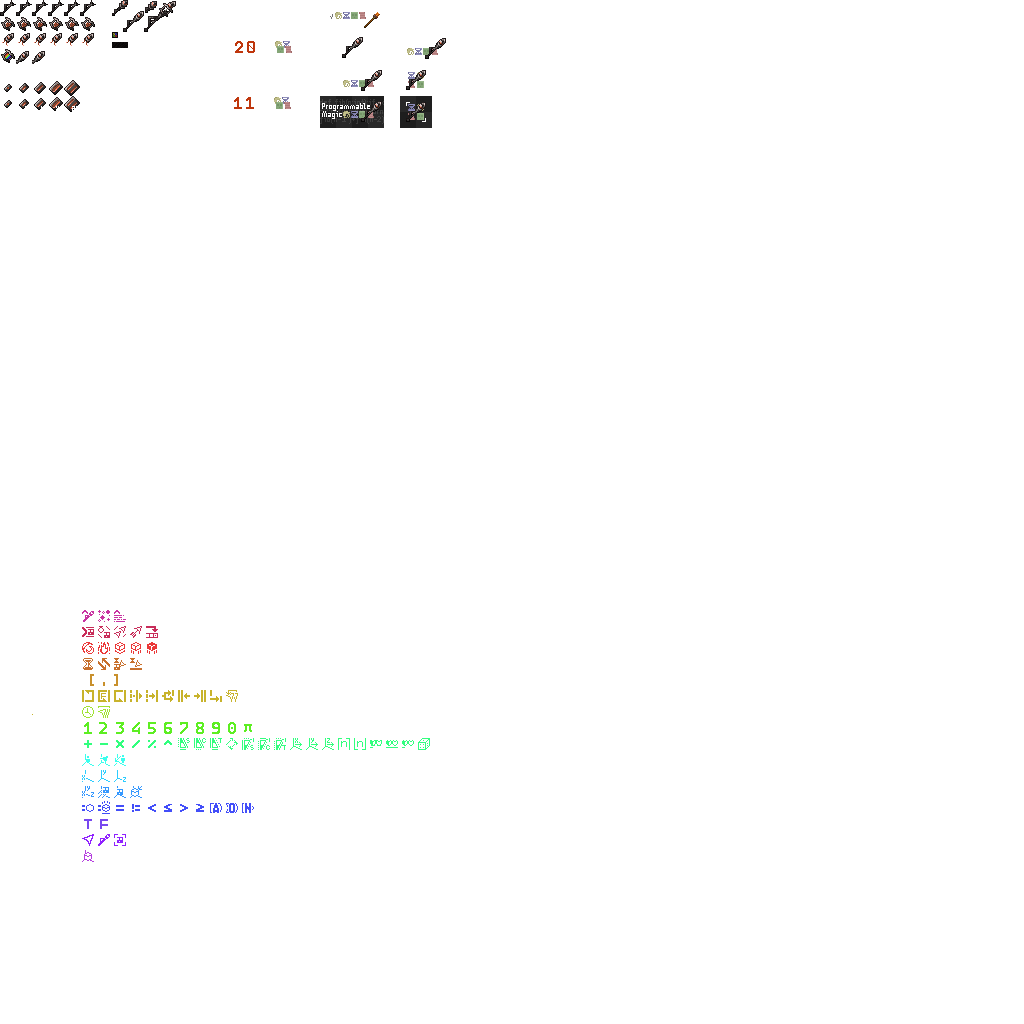
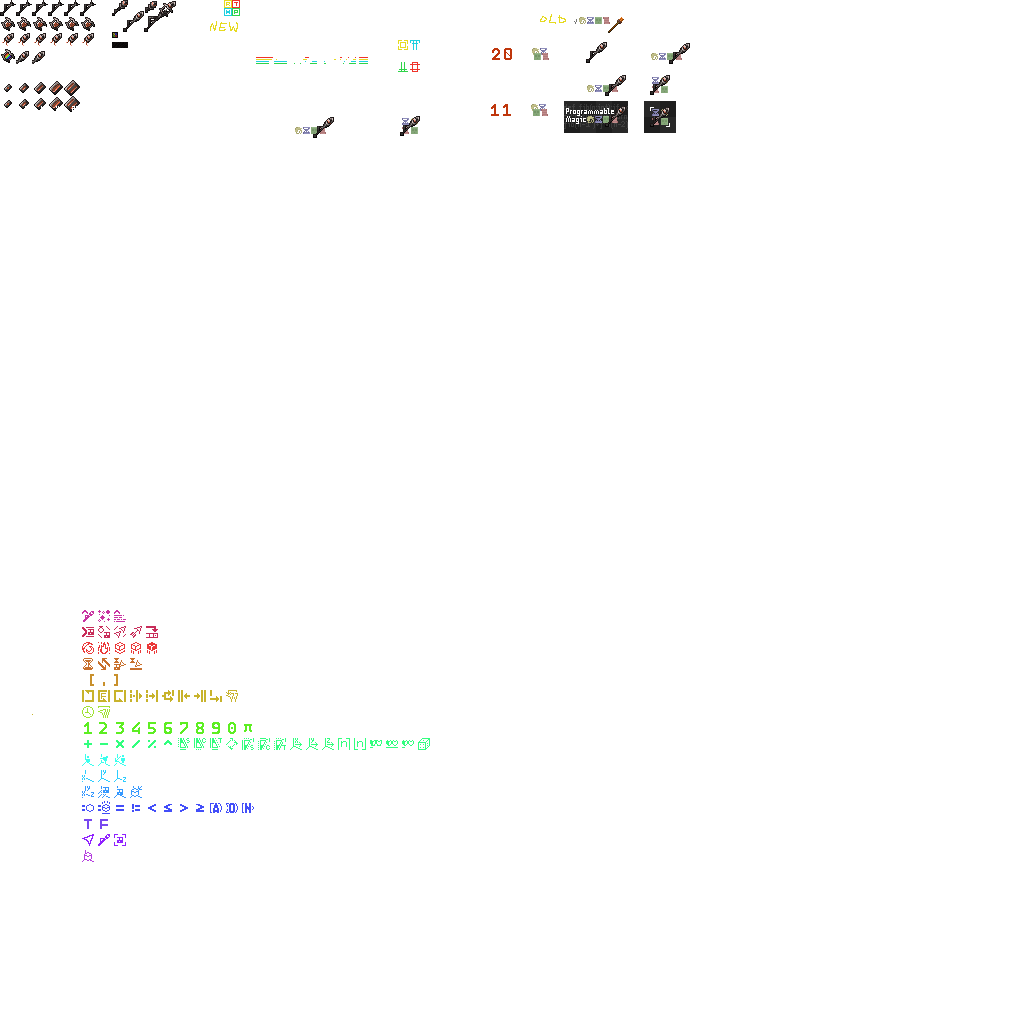
chore: 更新README简介, 调整GUI文案, 更换模组Logo

diff --git a/README.md b/README.md
@@ -1,7 +1,4 @@
-
----
-
-# Arcanism (魔导主义)
+# Arcanism（魔导主义）
 
 <div align="center">
 
@@ -16,56 +13,40 @@
 
 </div>
 
-## 🤔 把魔法写成代码，会怎样？
+Arcanism 是一个融合了科技要素和编程要素的魔法 Mod。这个 Mod 以魔力的生产与消耗作为核心玩法，构建了一套魔力体系。
 
-在大多数魔法模组里，法术是现成的——右键放火球，shift 放护盾，威力看等级，区别只在于数值。玩法始终是"选技能、按按键、等冷却"。
+> 当前正在早期开发版本，部分功能可能只有雏形，以下简介的功能可能只实现了一部分。
 
-**Arcanism** 把施法变成了一门工程学。法术是零件——效果、运算、条件、循环。你需要把这些零件像写程序一样编排进魔杖，组合出自己的施法序列。
+## 核心亮点
 
-> 你的强弱，取决于你构建的逻辑。
+- 类 "Factorio" 式的多方块结构机器和产线生产；
+- 四系魔力系统，魔力生产需要平衡各项；
+- 基于物理/第一性原理的多样化的魔力生产/消耗方式；
+- 类 "Noita" 的法术编程系统；
+- 模块化的法杖，定制你自己的施法方式；
+- 基于现实的产线和数值，不出现"缺乏平衡"的问题。
 
----
+## 魔力系统，怎么玩？
 
-## 🧩 一门真正的"魔法编程语言"
+四种魔力基于现实物理，每种魔力可以局部改变对应物理量。尝试使用天马行空的方式聚集能量，再通过魔导材料收集这些魔力吧！得益于此，每种魔力都会有很多独特的生产方式，也可以让一种魔力转换成另一种（当然，通过物理）。
 
-魔杖里流淌的是一段用卡片写成的程序。
+每种魔力都有自己的用途，有自己的独特机器，而且通过超频机制，你最高可以将机器速度提升 5 倍！
 
-**基础效果**是输出——爆炸、传送、方块放置、药水效果……这些是法术最终要做的事。一张火球还不够自动化，你需要**运算卡片**来计算——四则运算、三角函数、向量投影、动态获取施法者位置和视线方向，让参数告别硬编码。**控制卡片**来决策——`if` 条件分支区分敌我、`while` 循环批量处理、逻辑运算符组合判断。**触发器**来感知——接触地面时引爆、触碰到实体时追踪、延时精确到刻。
+## 法术编程，怎么做？
 
-数字用 0-9 卡片拼积木一样拼出来。括号决定优先级，逗号分隔参数。70+ 张卡片构成了一门完整的编程语言——有类型系统、有运算符优先级、有作用域、有异常处理。
+法术编程，不应该只按类别排列组合，而得是一个图灵完备的计算机器，才能真正做到"千人千术"。因此我们设计了完整的延时、计算、条件、循环等法术，让您能真正控制法术的所有行为。
 
-你组装的不是技能，是**可复用的法术函数**。一套优秀的序列可以针对战斗、挖掘、移动场景快速改装。
+调试艰难？模组法杖内置调试器，实时显示当前执行的法术，自动断点、单步运行、单刻运行、继续暂停……你想要的全都有！此外，法杖内置方便的编辑/导入/导出系统，无论是在魔杖或是 VSCode，都能提供 IDE 级别的编辑体验。
 
----
+## 不想科技/编程，怎么办？
 
-## 🔋 魔力是四维向量
+科技部分与法术编程部分完全独立，大部分材料都会设置探索或合成两种获取方式。无需迁就，寻找属于自己的魔导体验。
 
-传统的魔力就是一个数字，够不够看一眼蓝条就知道。这里，每条法术同时消耗**四种魔力**：辐射、温度、动量、压力。四系独立结算，任一项不足就施法失败。
+## 版本与前置
 
-这改变了发电机的意义——不能只造一种。风力涡轮产出动量，太阳能板产出辐射，水泵消耗动量产出压力，蒸汽锅炉把温度和压力转换成功。你需要搭建电力网级别的魔力网络，用线缆连接设备，用路由分配负荷，像管理电网一样管理魔力。
+Arcanism 需要 GeckoLib 作为前置，运行版本 26.1.2。
 
-不同的法术序列需要不同的魔力配比，意味着你需要规划产能结构。想做爆炸法师就多修动量塔，想走辅助路线则温度和辐射产线得跟上。
-
----
-
-## ⚙ 魔杖即硬件，插件即配置
-
-空手施法在这里不存在。魔杖是法术的物理载体，有固定的法术槽位和插件槽位。插件是**可插拔的硬件配置**：供给插件决定魔力转化效率，存储插件扩展法术容量，释放插件控制充能功率。
-
-不同场景换不同插件，一把魔杖可以有完全不同的使用体验。这是模组化的思路——不强迫你农满级，只根据需求搭配。
-
----
-
-## 📦 上手
-
-1. 环境：Minecraft `26.1.2` + NeoForge，前置 **GeckoLib**
-2. 从 [GitHub Releases](https://github.com/creepebucket/arcanism/releases) 下载
-3. 放入 `mods`
-4. 合成一把魔杖和一些法术卡片，潜行右键打开编程界面，开始组装你的第一个法术序列
-
----
-
-## 📄 许可
+## 许可
 
 **源代码**：GPLv3。**美术资源**：原作者保留所有权利（ARR），绝大部分美术资源不可自由挪用。详见 `ASSET_LICENSE.md`。
 
@@ -73,12 +54,10 @@
 
 <div align="center">
 <a href="https://www.star-history.com/#creepebucket/arcanism&type=date&legend=top-left">
- <picture>
-   <source media="(prefers-color-scheme: dark)" srcset="https://api.star-history.com/svg?repos=creepebucket/arcanism&type=date&theme=dark&legend=top-left" />
-   <source media="(prefers-color-scheme: light)" srcset="https://api.star-history.com/svg?repos=creepebucket/arcanism&type=date&legend=top-left" />
-   <img alt="Star History Chart" src="https://api.star-history.com/svg?repos=creepebucket/arcanism&type=date&legend=top-left" />
- </picture>
+  <picture>
+    <source media="(prefers-color-scheme: dark)" srcset="https://api.star-history.com/svg?repos=creepebucket/arcanism&type=date&theme=dark&legend=top-left" />
+    <source media="(prefers-color-scheme: light)" srcset="https://api.star-history.com/svg?repos=creepebucket/arcanism&type=date&legend=top-left" />
+    <img alt="Star History Chart" src="https://api.star-history.com/svg?repos=creepebucket/arcanism&type=date&legend=top-left" />
+  </picture>
 </a>
 </div>
-
----
